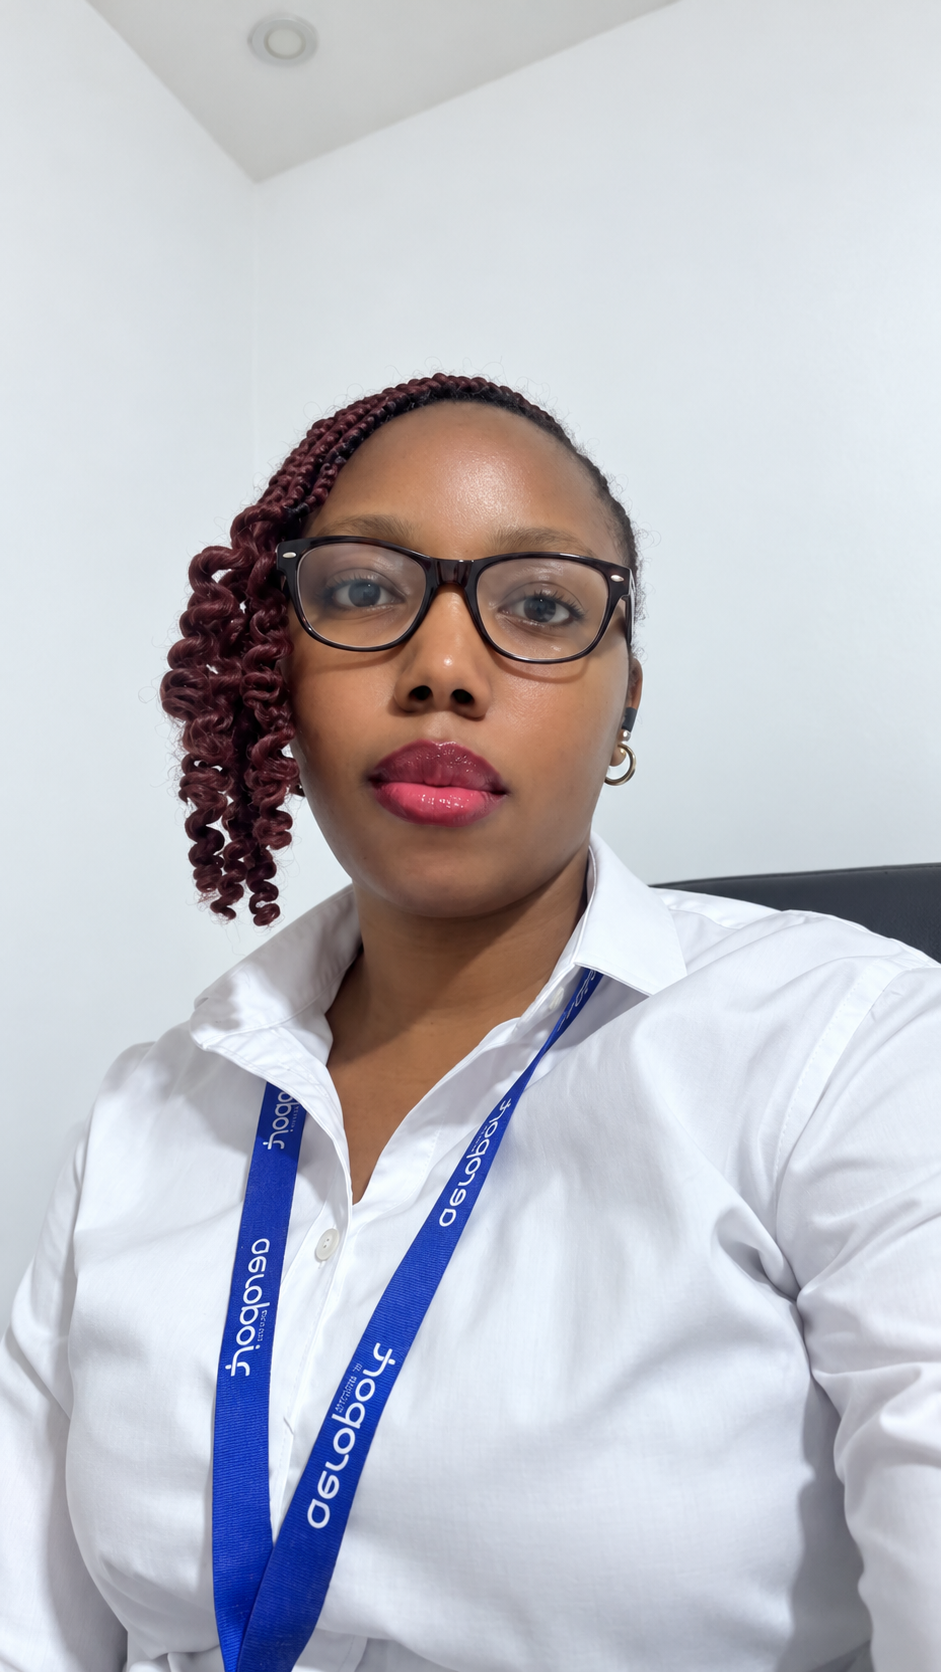
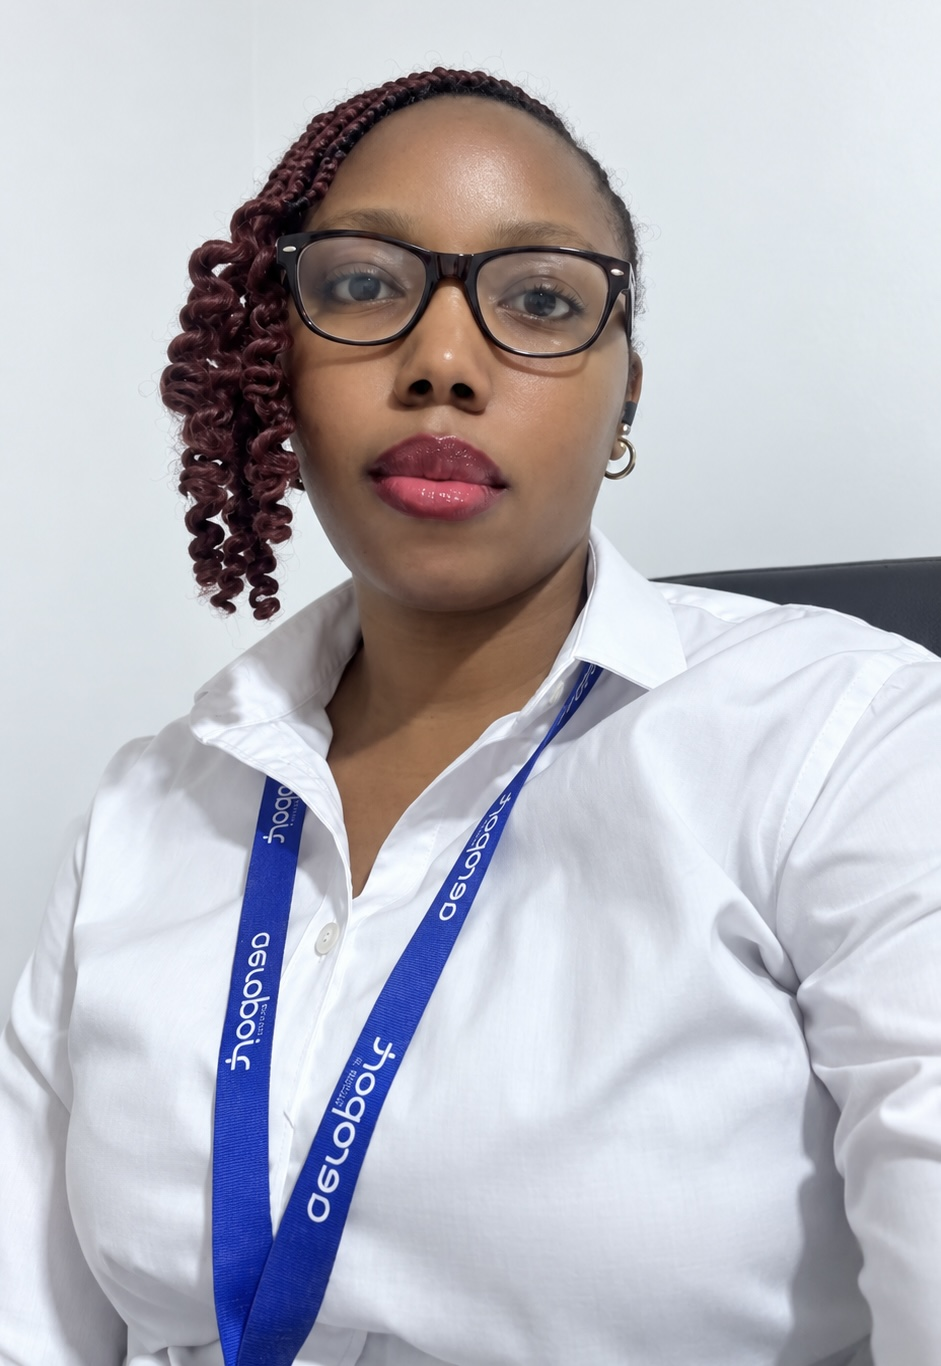
Update officers and home page buttons
- Replace Esther Chianumba's photo with the new portrait, zoomed out
- Add Clara Umeh to the Officers section
- Home: 'See Our Work' now links to the Our Work page
- Home: 'Care when it matters most' and 'Love in Action' buttons now open the donation modal ('Make a Donation')
- Home: CTA secondary button is now 'View Gallery', linking to the Media page

diff --git a/components/sections/MissionSection.tsx b/components/sections/MissionSection.tsx
@@ -1,6 +1,7 @@
 import React from 'react';
 import Image from 'next/image';
 import { Button } from '@/components/ui/Button';
+import { DonateButton } from '@/components/donation/DonateButton';
 
 const steps = [
   {
@@ -27,6 +28,7 @@ const features = [
   {
     image: '/Images/image_06.png',
     tag: 'EDUCATION & DEVELOPMENT',
+    cta: 'work',
     title: 'Opening doors to a brighter future.',
     description:
       'Supporting children and young people through education, mentorship and skills development.',
@@ -34,6 +36,7 @@ const features = [
   {
     image: '/Images/image_05.png',
     tag: 'CARE & SUPPORT',
+    cta: 'donate',
     title: 'Care when it matters most.',
     description:
       'We provide practical support, including medical care, guidance and assistance for people facing difficult circumstances.',
@@ -129,9 +132,15 @@ export function MissionSection() {
                 </p>
               )}
               <div className="mt-5">
-                <Button variant="outline" size="md" href="/about">
-                  See Our Work
-                </Button>
+                {feature.cta === 'donate' ? (
+                  <DonateButton variant="outline" size="md">
+                    Make a Donation
+                  </DonateButton>
+                ) : (
+                  <Button variant="outline" size="md" href="/our-work">
+                    See Our Work
+                  </Button>
+                )}
               </div>
             </div>
           ))}

diff --git a/components/sections/ImpactSection.tsx b/components/sections/ImpactSection.tsx
@@ -2,7 +2,7 @@
 
 import React, { useEffect, useState } from 'react';
 import Image from 'next/image';
-import { Button } from '@/components/ui/Button';
+import { DonateButton } from '@/components/donation/DonateButton';
 
 const slides = [
   { src: '/Images/image_02.png', alt: 'A young person looking toward the horizon' },
@@ -51,9 +51,9 @@ export function ImpactSection() {
               Through outreach, guidance and practical support, we meet people where they are, respond to immediate needs and help create a stronger path forward for individuals and communities.
             </p>
             <div className="flex">
-              <Button variant="outline" size="lg" href="/about">
-                See Our Work
-              </Button>
+              <DonateButton variant="outline" size="lg">
+                Make a Donation
+              </DonateButton>
             </div>
           </div>
 

diff --git a/components/sections/about/OfficersSection.tsx b/components/sections/about/OfficersSection.tsx
@@ -17,9 +17,10 @@ const officers: Officer[] = [
   {
     name: 'Esther Chianumba',
     role: 'Officer',
-    image: '/Images/officers/esther_chianumba.png',
-    // Push the picture slightly up
-    position: 'center 10%',
+    // Zoomed-out version: same photo with the wall extended around it, so the
+    // circle shows more of her (CSS alone can't zoom out past the photo's edges).
+    image: '/Images/officers/esther_chianumba_wide.jpg',
+    position: 'center 32%',
   },
   {
     name: 'Amarachi Opara',
@@ -43,6 +44,13 @@ const officers: Officer[] = [
     position: 'center top',
     scale: 1.7,
     transformOrigin: 'top',
+  },
+  {
+    name: 'Clara Umeh',
+    role: 'Officer',
+    image: '/Images/officers/clara_umeh.jpg',
+    // Face sits in the upper third, so the default top-centered framing fits
+    position: 'center top',
   },
 ];
 

diff --git a/components/sections/CTASection.tsx b/components/sections/CTASection.tsx
@@ -53,10 +53,10 @@ export function CTASection() {
 
               {/* Secondary - lighter */}
               <a
-                href="/about"
+                href="/media"
                 className="inline-flex items-center justify-center gap-2 h-14 px-8 rounded-[10px] border border-white/40 text-white font-medium transition-colors hover:bg-white/10"
               >
-                Learn About Us
+                View Gallery
                 <svg className="w-5 h-5" fill="none" stroke="currentColor" viewBox="0 0 24 24">
                   <path strokeLinecap="round" strokeLinejoin="round" strokeWidth={2} d="M14 5l7 7m0 0l-7 7m7-7H3" />
                 </svg>
